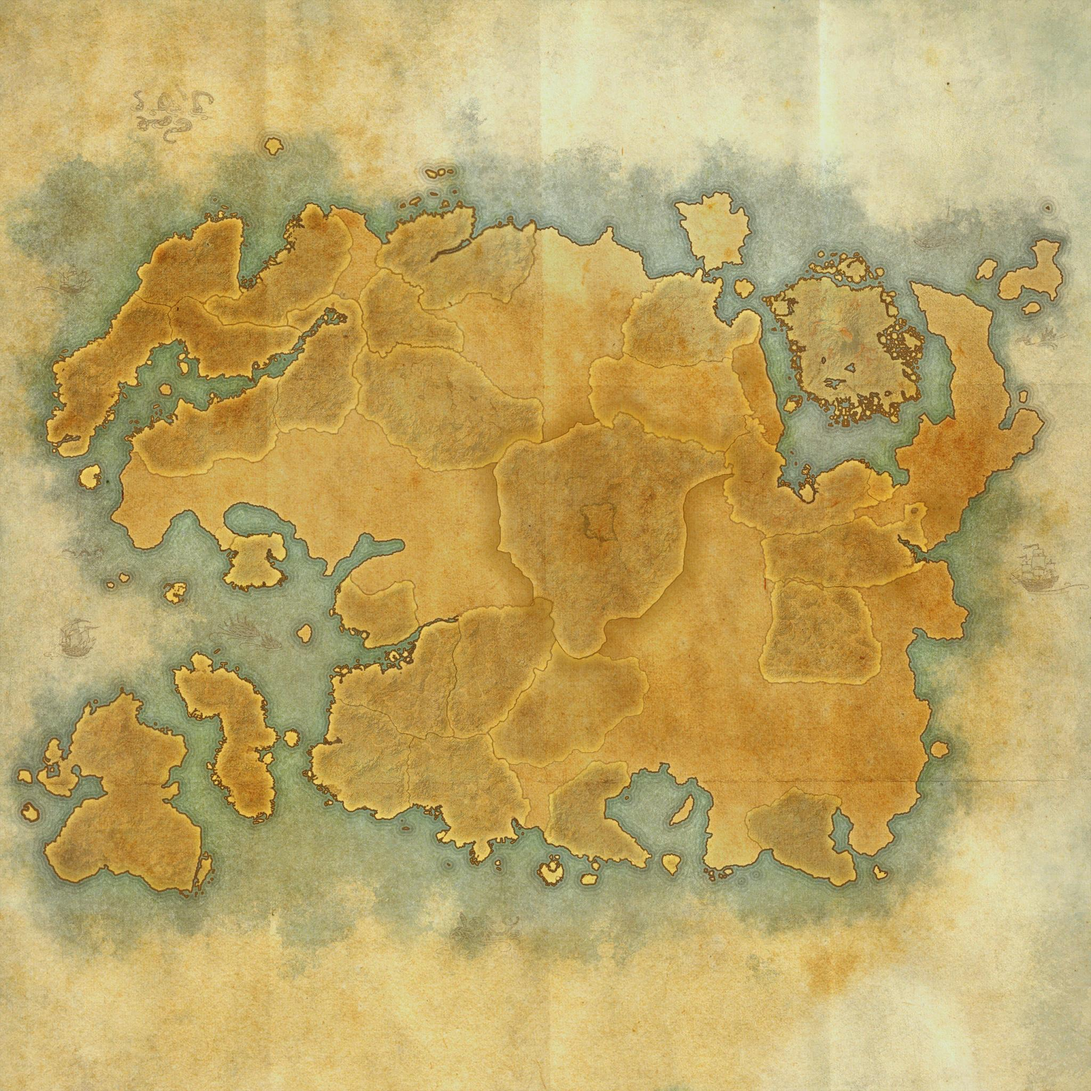
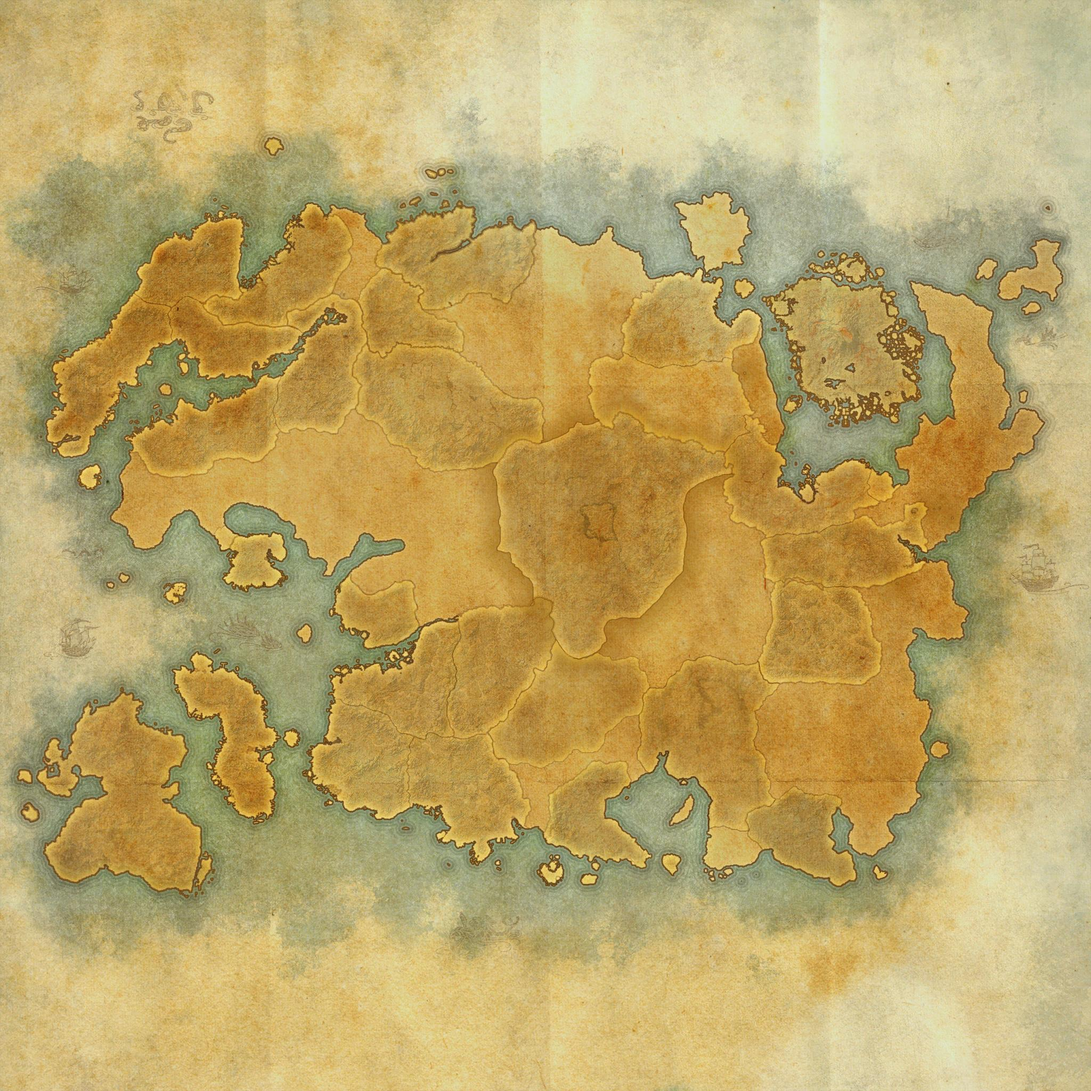
2021-06-11 blackwood map update

Changed region(s): [[0.5625, 0.5938, 0.7188, 0.75], [0.8125, 0.3125, 0.8438, 0.3438], [0.75, 0.3438, 0.7812, 0.375]]

diff --git a/interactive-map.js b/interactive-map.js
@@ -116,7 +116,7 @@ function getLocation(zoneOrAlliance) {
     ['dlc-chapter', 'dlc-chapter',
       ['imperialcity', 'wrothgar', 'hewsbane', 'goldcoast', 'clockworkcity', 'vvardenfell',
       'summerset', 'artaeum', 'murkmire', 'elsweyr', 'northernelsweyr', 'southernelsweyr',
-      'westernskyrim', 'blackreach', 'thereach', 'blackreach-arkthzand'] ],
+      'westernskyrim', 'blackreach', 'thereach', 'blackreach-arkthzand', 'blackwood'] ],
     /* dummy zones */
     ['overlay', 'overlay-alliance',
       ['overlay', 'overlay-zone'] ],
@@ -725,6 +725,19 @@ function getRareFish(zone) {
         ['saltwater', ''],
         ['lake', ''] ] ]
       break;
+      case 'blackwood':
+        fish = [
+          [ ['blue'],
+          ['foul', 'Stained Porgy'],
+          ['river', 'Pantherfish'],
+          ['saltwater', 'Opaline Albacore'],
+          ['lake', 'Blackwater Bullhead'] ],
+          [ ['green'],
+          ['foul', 'Inkspur Cuttlefish', 'Muddy Razorgill'],
+          ['river', 'Ivory Darter', 'Onkobra Muskie'],
+          ['saltwater', 'Harvester Octopus', 'Topal Nautilus'],
+          ['lake', 'Red Zander', 'Speckled Sauger'] ] ]
+        break;
     default:
       return false;
   }

diff --git a/interactive-map.html b/interactive-map.html
@@ -249,6 +249,12 @@
             <set attributeName="visibility" from="hidden" to="visible" begin="thereach.mouseover" end="thereach.mouseout" />
           </text>
         </a>
+        <a xlink:href="../dlc-chapter#blackwood" xlink:title="Blackwood">
+          <polygon id="blackwood" class="area dlc" points="483,510,493,510,498,503,506,499,509,491,516,492,520,487,527,486,545,493,551,492,554,494,562,492,566,504,570,507,578,508,571,516,563,526,561,528,562,534,562,542,559,549,561,557,566,559,568,563,568,572,572,580,572,583,571,587,574,592,572,598,565,598,553,603,552,609,555,613,553,616,537,613,527,615,520,614,520,595,512,586,502,587,482,575,474,563,474,555,476,545,475,531,478,524,478,516" />
+          <text x="17" y="60" class="dlc" visibility="hidden">Blackwood<tspan x="17" y="90">(DLC & Chapter Zones)</tspan>
+            <set attributeName="visibility" from="hidden" to="visible" begin="blackwood.mouseover" end="blackwood.mouseout" />
+          </text>
+        </a>
       </svg>
     </div>
     <!-- End: SVG Map -->
